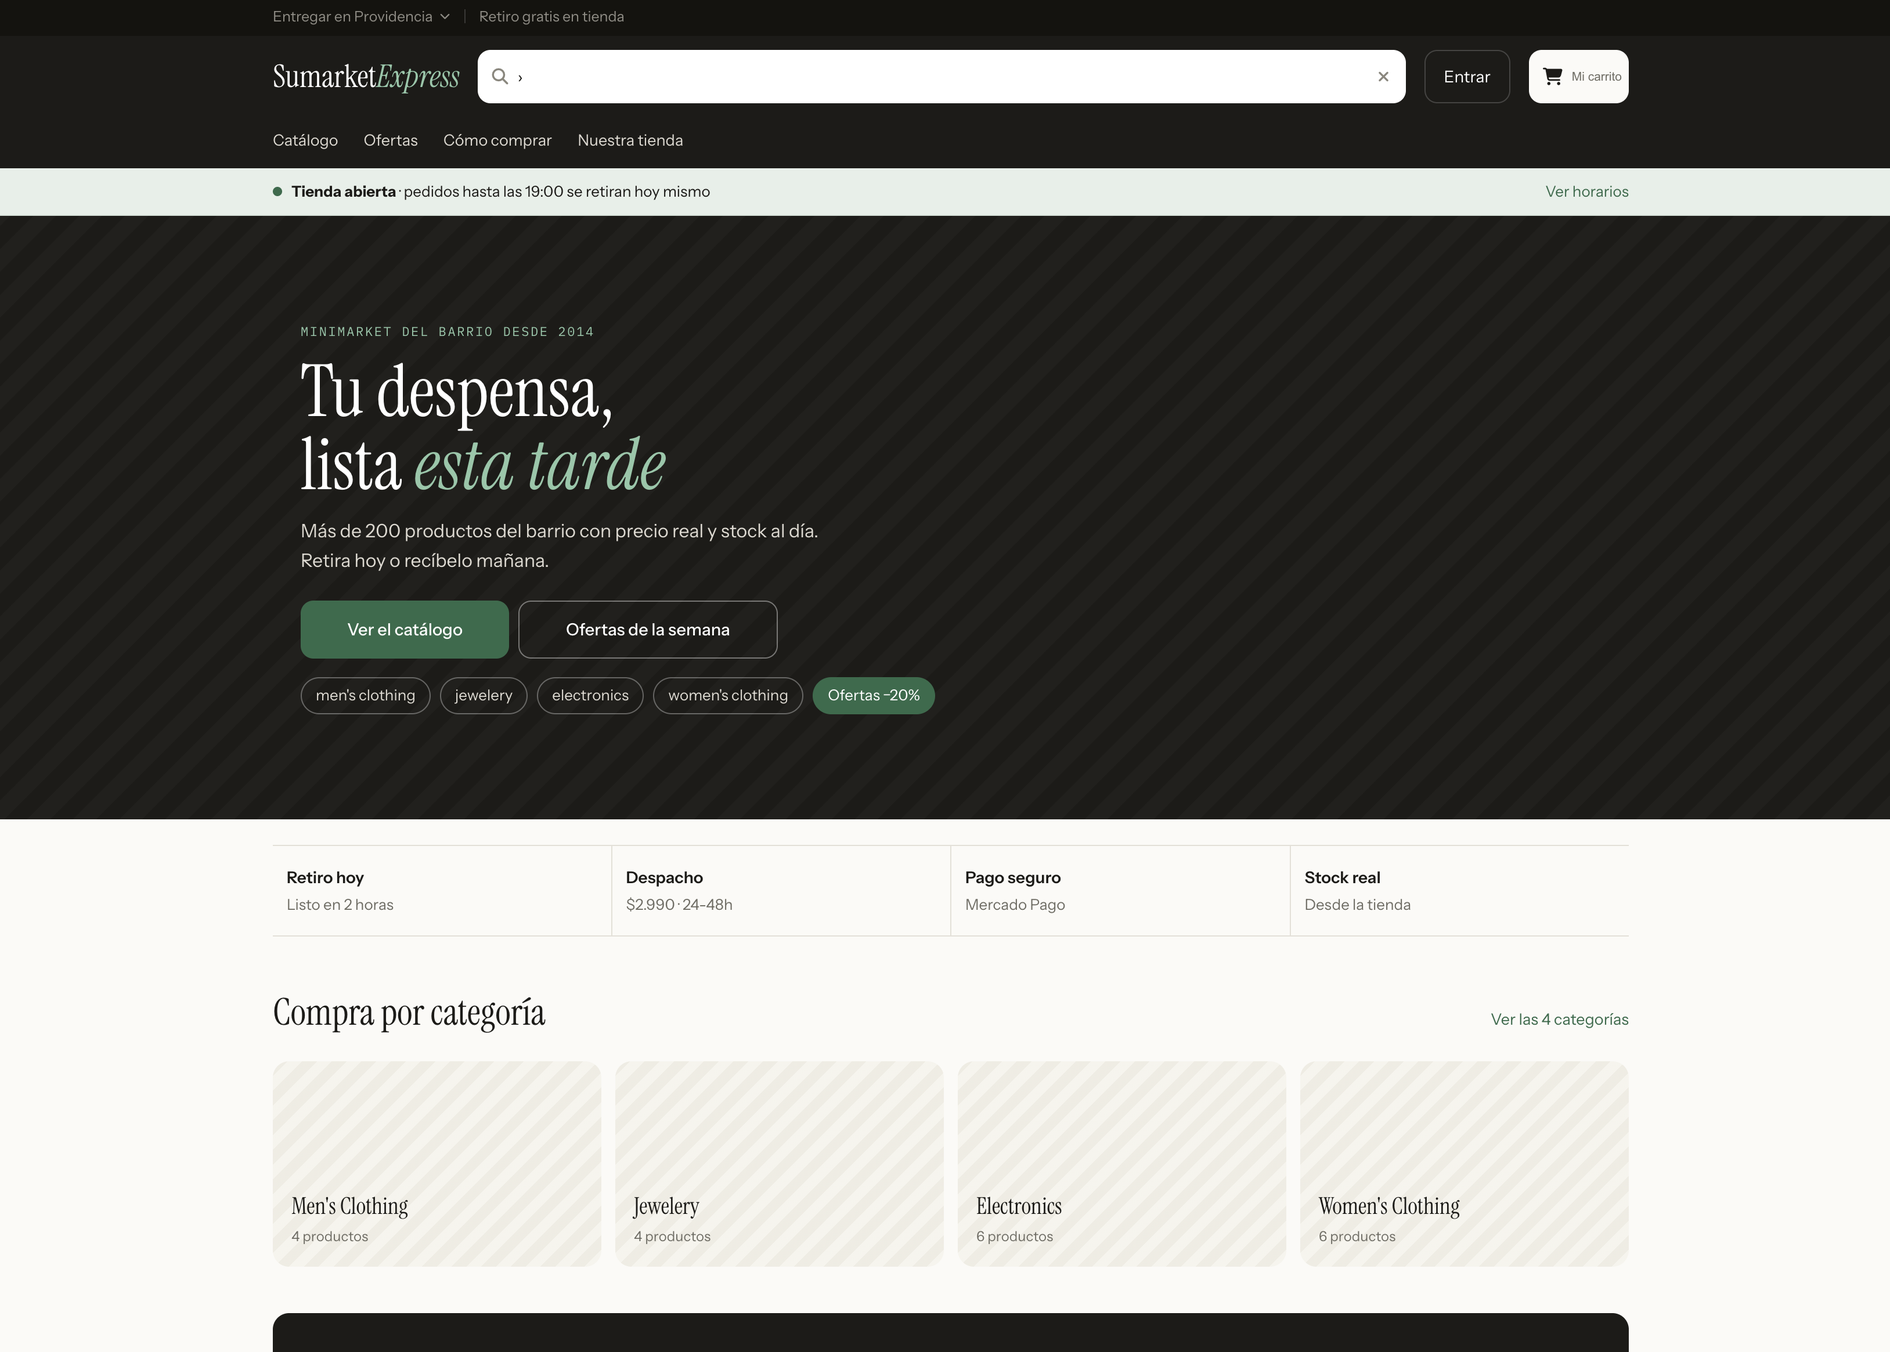
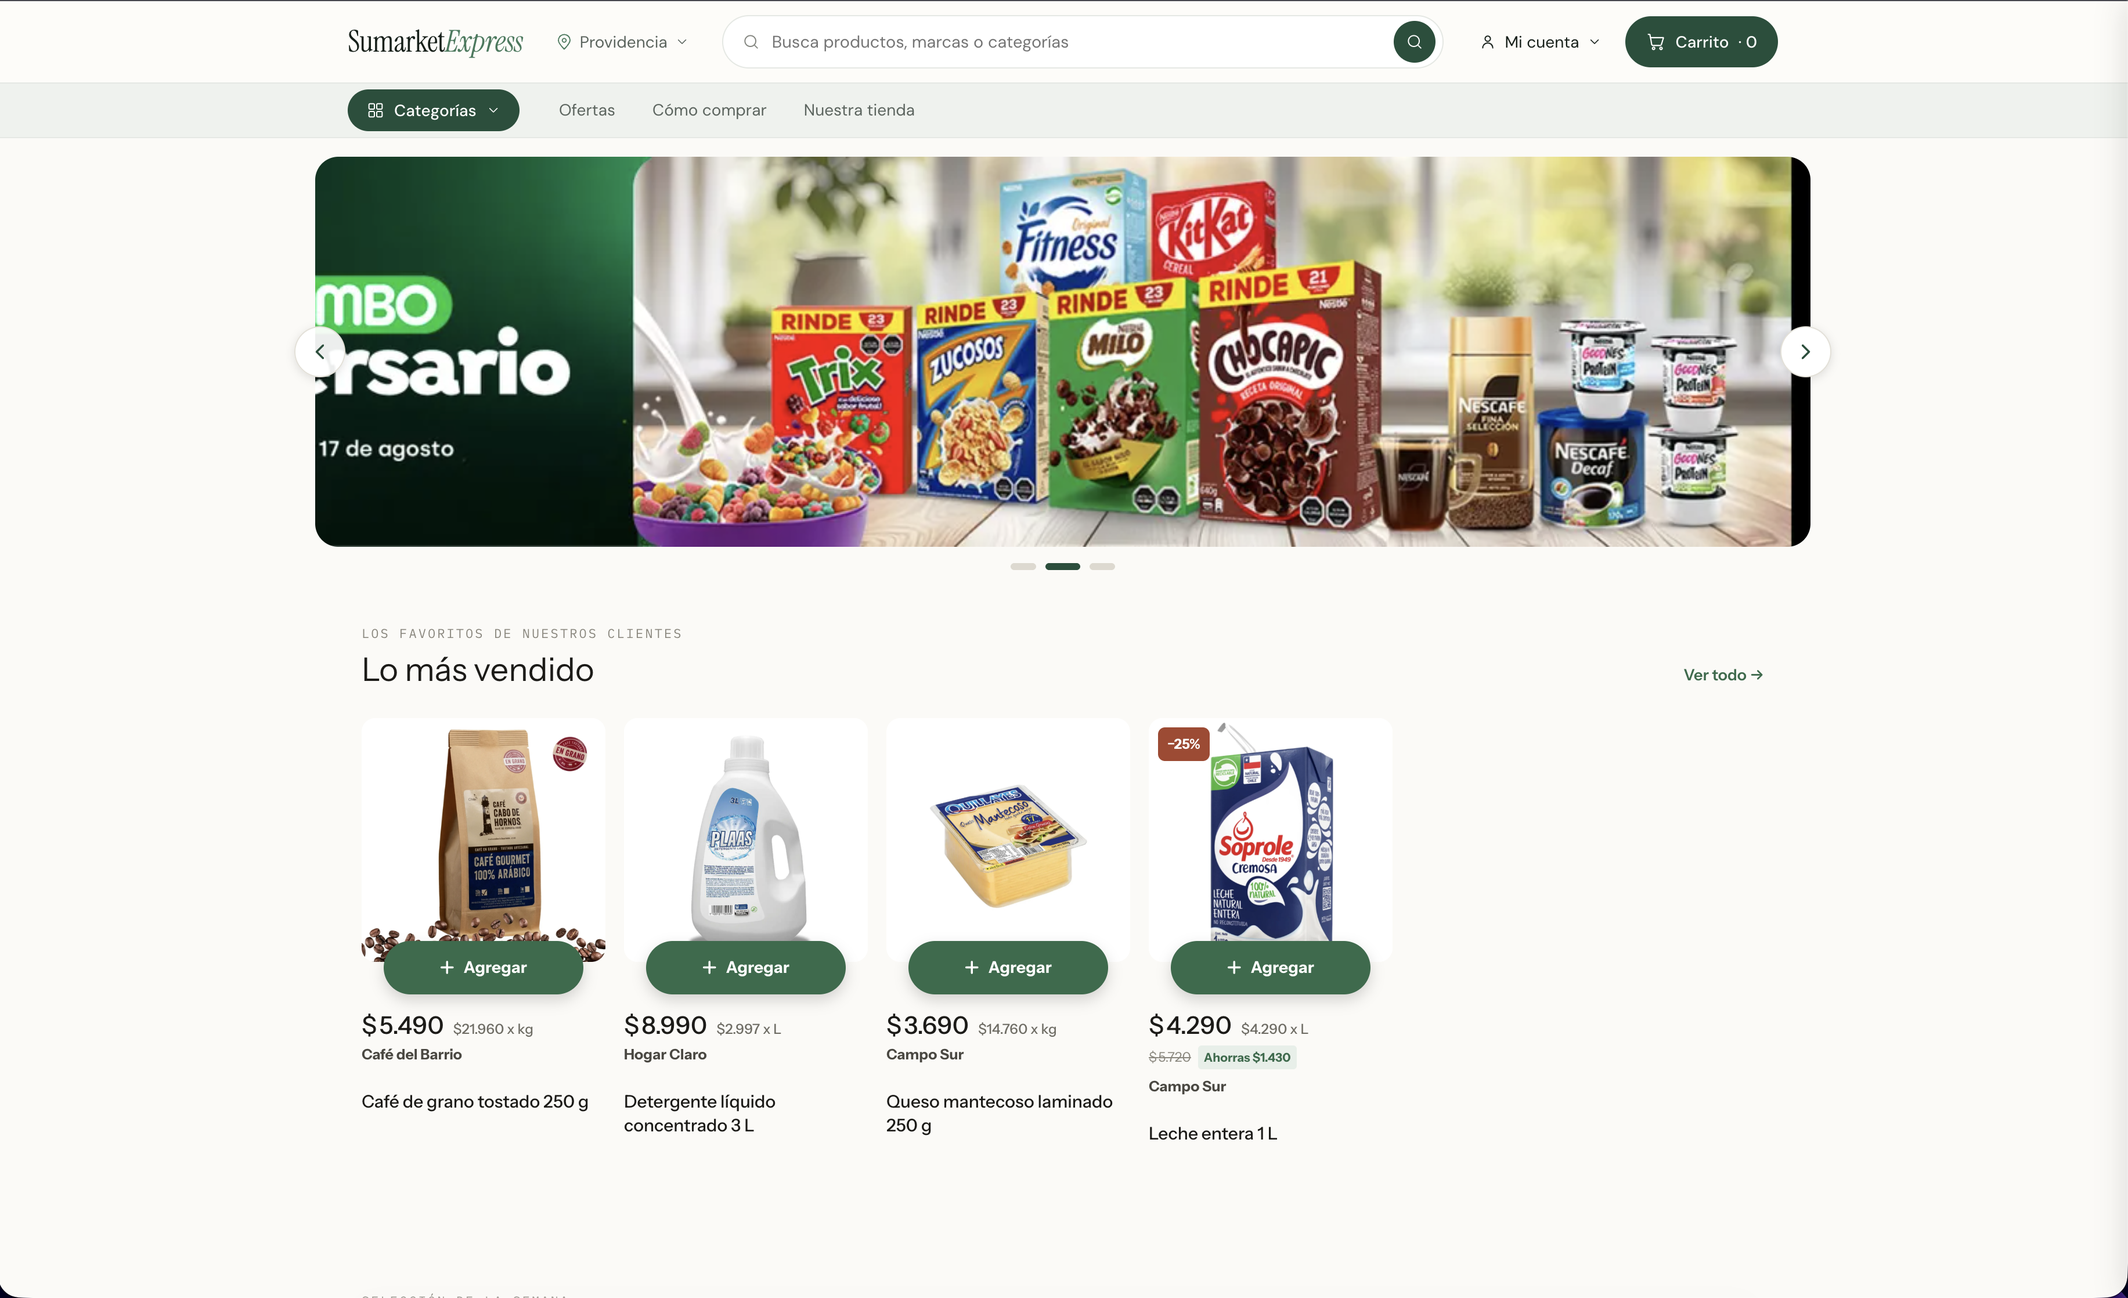
docs: modernizar readme y actualizar contenido al dia

diff --git a/README.md b/README.md
@@ -1,253 +1,154 @@
+<div align="center">
+
 # 🛒 SumarketExpress
 
-E-commerce de minimarket desarrollado como proyecto personal de aprendizaje
-full-stack. La tienda pública está hecha con React y consume una API propia que
-evoluciona con Express, PostgreSQL y Prisma.
+**E-commerce full-stack de un minimarket** — tienda en React sobre una API propia
+construida con Express, PostgreSQL y Prisma. Proyecto personal de aprendizaje.
 
-## Demo
+![React](https://img.shields.io/badge/React_19-20232A?style=for-the-badge&logo=react&logoColor=61DAFB)
+![Vite](https://img.shields.io/badge/Vite-646CFF?style=for-the-badge&logo=vite&logoColor=white)
+![Node.js](https://img.shields.io/badge/Node.js-5FA04E?style=for-the-badge&logo=nodedotjs&logoColor=white)
+![Express](https://img.shields.io/badge/Express_5-000000?style=for-the-badge&logo=express&logoColor=white)
+![PostgreSQL](https://img.shields.io/badge/PostgreSQL_16-4169E1?style=for-the-badge&logo=postgresql&logoColor=white)
+![Prisma](https://img.shields.io/badge/Prisma_7-2D3748?style=for-the-badge&logo=prisma&logoColor=white)
+![Zod](https://img.shields.io/badge/Zod-3E67B1?style=for-the-badge&logo=zod&logoColor=white)
 
-[Ver demo pública](https://sumarketexpress.sumarket.workers.dev/)
+![Cloudflare Pages](https://img.shields.io/badge/Cloudflare_Pages-F38020?style=for-the-badge&logo=cloudflare&logoColor=white)
+![Render](https://img.shields.io/badge/Render-000000?style=for-the-badge&logo=render&logoColor=white)
+![Supabase](https://img.shields.io/badge/Supabase-3FCF8E?style=for-the-badge&logo=supabase&logoColor=white)
+![Cloudinary](https://img.shields.io/badge/Cloudinary-3448C5?style=for-the-badge&logo=cloudinary&logoColor=white)
+![Brandfetch](https://img.shields.io/badge/Brandfetch-171717?style=for-the-badge&logo=brandfetch&logoColor=white)
+![Mercado Pago](https://img.shields.io/badge/Mercado_Pago-00B1EA?style=for-the-badge&logo=mercadopago&logoColor=white)
+![Vitest](https://img.shields.io/badge/Vitest-6E9F18?style=for-the-badge&logo=vitest&logoColor=white)
 
-> La demo en vivo consume la **API propia desplegada** (Render + PostgreSQL en
-> Supabase). Si esa API gratuita está dormida y la primera petición se pasa de
-> tiempo, el catálogo cae automáticamente a Fake Store como respaldo; recargar
-> lo soluciona.
+[**🌐 Ver demo en vivo**](https://sumarketexpress.sumarket.workers.dev/)
 
-![Vista previa de SumarketExpress](./src/assets/vistaprevia.png)
+</div>
 
-## Tecnologías
+> La demo consume la **API propia desplegada** (Render + Supabase). Si el plan
+> gratuito de la API está dormido y la primera petición expira, el catálogo cae
+> automáticamente a [Fake Store](https://fakestoreapi.com/) como respaldo; recargar lo soluciona.
 
-### Frontend
+![Vista previa de la tienda](./src/assets/vistaprevia.png)
+![Vista del panel de administración](./src/assets/vistaAdmin.png)
 
-- React 19, React Router y Vite.
-- JavaScript moderno, hooks, Context API y `useReducer`.
-- CSS Modules y design tokens CSS para el sistema visual responsive.
-- Font Awesome para iconografía.
-- Vitest + React Testing Library.
-- Cloudflare Pages para la demo pública.
+## ✨ Stack
 
-### Backend y datos
+**Frontend** — React 19, React Router, Vite. Hooks, Context API y `useReducer`;
+CSS Modules + design tokens para un sistema visual responsive. Vitest + Testing Library.
 
-- Node.js, Express 5 y API REST.
-- PostgreSQL 16, Prisma 7 y migraciones versionadas.
-- Zod para contratos y validación de entradas.
-- Argon2id, cookies `httpOnly` y sesiones con token hasheado para el personal.
-- Login con Google para clientes (Google Identity Services + verificación del ID
-  token en el servidor).
-- Cloudinary, Multer y Sharp para imágenes de productos y logos de marcas.
-- Correo transaccional con plantillas HTML profesionales y transporte inyectable
-  (memoria/consola en desarrollo, Brevo en producción).
-- Mercado Pago Checkout Pro en modo prueba, con webhook verificado por servidor.
-- `node:test` + Supertest para reglas y contratos HTTP.
+**Backend** — Node.js + Express 5 (API REST), PostgreSQL 16 con Prisma 7 y
+migraciones versionadas, Zod para validar todo contrato de entrada. Argon2id y
+sesiones con token hasheado en cookie `httpOnly`; login con Google (verificación
+del ID token en el servidor). Cloudinary + Sharp para imágenes y Brandfetch para logos de marcas, correo transaccional
+(Brevo) y Mercado Pago Checkout Pro con webhook verificado. `node:test` + Supertest.
 
-### Servicios temporales
+## 🧩 Funcionalidades
 
-- [Fake Store API](https://fakestoreapi.com/) como respaldo automático de la
-  demo si la API propia (plan gratuito) está temporalmente dormida.
+### 🛍 Tienda pública
+- Inicio editorial: **carrusel de banners** administrable, filas de destacados,
+  **lo más vendido** (ranking real de ventas) y ofertas — sin catálogo embutido.
+- Navegación tipo supermercado: **mega-menú** de categorías con subcategorías y
+  **buscador** (por nombre, categoría o marca) con historial y accesos rápidos.
+- **Páginas de listado** por categoría/subcategoría/búsqueda/ofertas con breadcrumb,
+  orden, paginación y **sidebar de filtros** (marcas, rango de precio y atributos,
+  calculados por facetas del servidor).
+- Ficha de producto con galería, stock, ofertas y relacionados.
+- Carrito persistente (`localStorage`) con deshacer y drawer accesible.
+- **Checkout** en dos pasos (retiro o despacho), cotización en vivo y pago iniciado
+  desde el servidor.
+- Cuentas de cliente: registro/login (correo o Google), recuperación de contraseña,
+  direcciones, historial y detalle de pedidos.
+- Responsive, con foco visible y navegación por teclado.
 
-## Funcionalidades actuales
+### 🔐 Panel de administración
+Resumen (KPIs, gráficos SVG sin librerías), Pedidos (comanda + CSV), Productos,
+Inventario (con bitácora de movimientos), Clientes, Categorías (**taxonomía de 3
+niveles + atributos configurables**), Marcas, Envíos, Identidad, Contenido (Markdown),
+Banners y Equipo. Control por rol (`ADMIN` / `OPERADOR`).
 
-### Tienda pública
+### ⚙ API propia (garantías del servidor)
+- Los **montos, descuentos, envío y stock los recalcula el servidor**: el cliente
+  solo manda productos, cantidades y modalidad de entrega.
+- **Reserva atómica de stock** y máquina de estados por modalidad de entrega, con
+  snapshots históricos por pedido.
+- Disponibilidad honesta (`disponible` = stock − reservado) y suscripción "Avísame".
+- **Facetas** de catálogo (marcas, precio, atributos) para el sidebar del listado.
+- Webhook de Mercado Pago **idempotente** que avanza stock/pedido tras la aprobación.
+- Correo transaccional con plantillas HTML (confirmación, cambio de estado,
+  recuperación, boletín, reposición de stock).
 
-- Inicio editorial: carrusel de **banners** administrables, filas de destacados,
-  ofertas y categorías, sin catálogo embutido.
-- Navegación tipo supermercado: **mega-menú de categorías** (con íconos y sus
-  **subcategorías** reales) y un **buscador** con búsquedas recientes y accesos.
-- **Páginas de listado dedicadas** por categoría, subcategoría, búsqueda y ofertas
-  (`/categoria/:slug`, `?sub=`, `/buscar`, `/ofertas`), con breadcrumb, chips de
-  subcategorías, orden, paginación y un **sidebar de filtros** (marcas con conteo
-  y rango de precio, calculados por facetas del servidor).
-- Ficha de producto con galería, stock, precios, ofertas y productos
-  relacionados.
-- Banda de ofertas derivada de promociones vigentes, no de texto fijo.
-- Carrito persistente en `localStorage`: cantidades, límite por stock,
-  eliminación, deshacer, vaciado y drawer accesible.
-- Checkout en dos pasos con contacto, retiro o despacho, cotización en vivo y
-  pago iniciado desde el servidor.
-- Login (con correo o con Google), registro, recuperación de contraseña, perfil,
-  direcciones, historial y detalle de pedidos para clientes.
-- Suscripción al boletín desde el footer, con correo de bienvenida y baja en un clic.
-- Diseño responsive para escritorio, tablet y móvil; foco visible, navegación
-  por teclado y animaciones moderadas.
+## 🏗 Arquitectura
 
-### Panel de administración (staff)
-
-- **Resumen**: tablero con KPIs por período y su variación (ventas de pagos
-  aprobados, pedidos, ticket promedio, stock crítico), gráfico de ventas por día,
-  ranking de más vendidos, pipeline de pedidos por estado, cobros e ingresos por
-  modalidad. Trae acciones inline sobre los pedidos que requieren atención, panel
-  de productos por reponer, selector de período y refresco en vivo; gráficos y
-  donuts hechos con SVG, sin librerías de terceros.
-- **Pedidos**: listado con búsqueda por número o cliente y conteos por estado,
-  detalle, avance de estado, impresión de comanda y exportación a CSV.
-- **Productos**: alta, edición, archivado/restauración y eliminación definitiva
-  (solo sin ventas; con pedidos asociados se archiva), con imágenes, categorías,
-  subcategorías, marcas, etiquetas y promociones.
-- **Inventario**: vista de stock por producto con estado y ajustes (entrada, merma,
-  conteo) que escriben una bitácora de movimientos auditable.
-- **Clientes**: directorio paginado con métricas de compra, ficha con direcciones e
-  historial, y activar/desactivar la cuenta (revoca sus sesiones).
-- **Categorías**: crear/ocultar categorías y gestionar la taxonomía de tres
-  niveles. Las subcategorías se editan en un acordeón —solo una abierta a la
-  vez— y permiten administrar sus niveles hijos y filtros configurables.
-- **Marcas**: alta y logo por dominio de Brandfetch o imagen propia de Cloudinary.
-- **Envíos**: reglas de entrega (umbral de envío gratis, tarifa base, tarifas por
-  comuna, corte de retiro) que el servidor usa para cotizar.
-- **Identidad**: nombre, contacto, dirección, redes y **horario estructurado** de la
-  tienda; el footer refleja "abierto/cerrado ahora" calculado de ese horario.
-- **Contenido**: páginas estáticas en **Markdown** (nosotros, términos, privacidad, faq).
-- **Banners**: carrusel de portada con subida de imagen, orden, activación y vigencia.
-- **Mi cuenta**: editar el nombre, cambiar la contraseña, cerrar sesión y cerrar
-  la sesión en todos los dispositivos.
-- **Equipo** (solo administrador): crear operadores y activarlos, desactivarlos,
-  restablecer su contraseña o eliminarlos; gestionar una cuenta revoca sus
-  sesiones.
-- Navegación lateral con iconos, acceso directo a la tienda pública, login en su
-  propia ruta y control por rol (`ADMIN` / `OPERADOR`).
-
-### API propia
-
-- Productos publicados con búsqueda sin tildes, categorías, subcategorías,
-  tercer nivel, marcas, imágenes, etiquetas, promociones vigentes, filtros y
-  paginación.
-- Taxonomía de tres niveles: categoría → subcategoría → nivel hijo. El catálogo
-  filtra por cada nivel, marca(s) y atributos; expone **facetas** (marcas,
-  rango de precio y atributos configurables) para el sidebar del listado.
-- Disponibilidad honesta por producto (`disponible` = stock − reservado,
-  `estadoStock`) y suscripción "Avísame" para productos agotados.
-- Administración protegida de productos, categorías, subcategorías, marcas, logos,
-  etiquetas, promociones, inventario, banners, identidad, contenido y operadores.
-- Identidad de la tienda, páginas de contenido en Markdown y banners del carrusel,
-  editables desde el panel y expuestos en endpoints públicos.
-- Sesiones de administrador/operador, roles y limitador de intentos de login.
-- Cuentas de clientes como dominio separado del staff: registro, login (con correo
-  o con Google), recuperación de contraseña por correo y logout con cookie de sesión
-  propia, direcciones guardadas e historial de pedidos.
-- Pedidos con montos recalculados por el servidor, snapshots históricos,
-  reserva atómica de stock y máquina de estados por modalidad de entrega.
-- Reglas de entrega editables por el administrador (umbral de envío gratis,
-  tarifa base, tarifas por comuna y corte de retiro), persistidas en la base;
-  el servidor calcula el costo de envío.
-- Correo transaccional con plantillas HTML profesionales (tablas, botones CTA,
-  dark mode) y transporte inyectable (Brevo en producción): confirmación de
-  pedido, cambio de estado, bienvenida al boletín, recuperación de contraseña
-  y aviso de reposición de stock.
-- Pagos de prueba con Mercado Pago: preferencia, webhook idempotente y avance
-  transaccional de stock/pedido tras la aprobación.
-
-## Arquitectura
-
-El frontend y `backend/` son aplicaciones separadas dentro del mismo
-repositorio. La API sigue un monolito modular:
+Frontend y `backend/` son aplicaciones separadas en el mismo repo. La API es un
+monolito modular:
 
 ```text
 routes → services → repositories → Prisma → PostgreSQL
 ```
 
-La UI se comunica mediante HTTP y normaliza sus respuestas; así Fake Store
-puede retirarse sin acoplar la interfaz a su estructura. En pedidos, el cliente
-solo envía productos, cantidades y entrega: precio, descuento, envío y stock
-los determina el servidor.
+La UI se comunica por HTTP y **normaliza las respuestas**, así el respaldo Fake Store
+puede retirarse sin acoplar la interfaz a su estructura.
 
-## Despliegue en producción
+## 🚀 Despliegue en producción
 
-La aplicación está desplegada de forma gratuita (portafolio):
+Desplegado de forma gratuita (portafolio); el frontend se publica en cada push a `main`
+y la API aplica sus migraciones durante el build.
 
-| Capa | Servicio | URL |
-|---|---|---|
-| Frontend | Cloudflare Pages (Workers) | https://sumarketexpress.sumarket.workers.dev/ |
-| API | Render | https://sumarket-express-api.onrender.com/api |
-| Base de datos | Supabase (PostgreSQL) | — |
-| Imágenes | Cloudinary | — |
-| Correo | Brevo (Sendinblue) | — |
-| Pagos | Mercado Pago (pruebas) | — |
+| Capa | Servicio |
+|---|---|
+| Frontend | Cloudflare Pages |
+| API | Render |
+| Base de datos | Supabase (PostgreSQL, con RLS activo) |
+| Imágenes | Cloudinary |
+| Logos de marcas | Brandfetch |
+| Correo | Brevo |
+| Pagos | Mercado Pago (pruebas) |
 
-El frontend se publica automáticamente con cada push a `main` (Cloudflare Pages
-hace build + deploy). La API corre en Render y aplica las migraciones durante el
-build. Como el plan gratuito de Render suspende el servicio tras unos minutos de
-inactividad, la primera visita puede tardar unos segundos en responder mientras
-despierta.
+> **Limitación conocida (Safari):** front (`workers.dev`) y API (`onrender.com`) son
+> sitios distintos, así que la cookie de sesión es *cross-site* (`SameSite=None; Secure`).
+> Chrome la acepta; Safari la bloquea por defecto. Se resuelve con un dominio propio
+> que unifique el origen. En local no ocurre.
 
-> **Limitación conocida — sesión en Safari (y navegadores con cookies de
-> terceros bloqueadas).** El frontend (`workers.dev`) y la API (`onrender.com`)
-> son **sitios distintos**, así que la cookie de sesión viaja *cross-site*
-> (`SameSite=None; Secure`). Chrome la acepta, pero Safari la bloquea por
-> defecto. Se resuelve sirviendo front y API desde el **mismo origen** (dominio
-> propio con subdominio para la API). En local no ocurre: `localhost:5173` y
-> `localhost:3000` son el mismo sitio.
-
-## Ejecutar localmente
-
-### 1. Frontend
+## 💻 Ejecutar localmente
 
 ```bash
+# 1. Frontend
 git clone https://github.com/wDEVil5/tienda-react.git
 cd tienda-react
 npm install
-npm run dev
-```
+npm run dev          # http://localhost:5173
 
-Frontend: `http://localhost:5173/`
-
-### 2. API y base de datos
-
-Con PostgreSQL 16 iniciado, abre otra terminal:
-
-```bash
+# 2. API + base de datos (otra terminal, con PostgreSQL 16 iniciado)
 cd backend
 cp .env.example .env
 npm install
 npx prisma migrate dev
 npm run db:seed
-npm run dev
+npm run dev          # http://localhost:3000
 ```
 
-API: `http://localhost:3000`
+Puntos de entrada de la API: catálogo y facetas (`/api/productos`, `/api/productos/facetas`),
+categorías y marcas, pedidos (`/api/pedidos/cotizar`, `/api/pedidos`), pagos
+(`/api/pagos`) y cuentas de cliente (`/api/cuenta`). Ver `backend/` para el detalle.
 
-Endpoints públicos principales:
-
-```text
-GET  /api/health
-GET  /api/productos?q=cafe&categoria=despensa&ofertas=true&page=1&limit=12
-GET  /api/productos/:slug
-GET  /api/categorias
-GET  /api/marcas
-GET  /api/reglas
-POST /api/pedidos/cotizar
-POST /api/pedidos
-POST /api/pagos
-GET  /api/pagos/:pagoId
-POST /api/avisos
-POST /api/newsletter
-```
-
-Las cuentas de clientes viven bajo `/api/cuenta` (registro, login, logout,
-direcciones e historial de pedidos) con su propia cookie de sesión.
-
-## Calidad
+## 🧪 Calidad
 
 ```bash
-# Frontend
-npm test
-npm run lint
-npm run build
-
-# Backend
-cd backend && npm test
+npm test && npm run lint && npm run build   # frontend
+cd backend && npm test                      # backend
 ```
 
-## Próximos pasos
+## 🗺 Próximos pasos
 
-1. Resolver y verificar el retorno de Mercado Pago hacia la confirmación de la
-   tienda en el entorno público HTTPS; el webhook ya es la fuente de verdad.
-2. Completar las secciones del panel aún pendientes (Inventario, Clientes,
-   Identidad y Contenido) sobre los endpoints ya existentes.
-3. Verificar la firma del webhook de Mercado Pago (`x-signature`) en producción.
-4. Dominio propio para unificar front y API bajo el mismo origen y resolver la
-   limitación de cookies cross-site en Safari.
-5. App móvil con React Native/Expo (fase posterior del roadmap).
+1. Verificar en producción (HTTPS) el retorno de Mercado Pago hacia la confirmación;
+   el webhook ya es la fuente de verdad.
+2. Verificar la firma del webhook (`x-signature`) en producción.
+3. Dominio propio para unificar front y API bajo el mismo origen (resuelve las
+   cookies cross-site en Safari).
+4. App móvil con React Native / Expo (fase posterior del roadmap).
 
-El alcance y las decisiones de producto se mantienen en un PRD.
+El alcance y las decisiones de producto se mantienen en un PRD en Notion.
 
 ---
 
